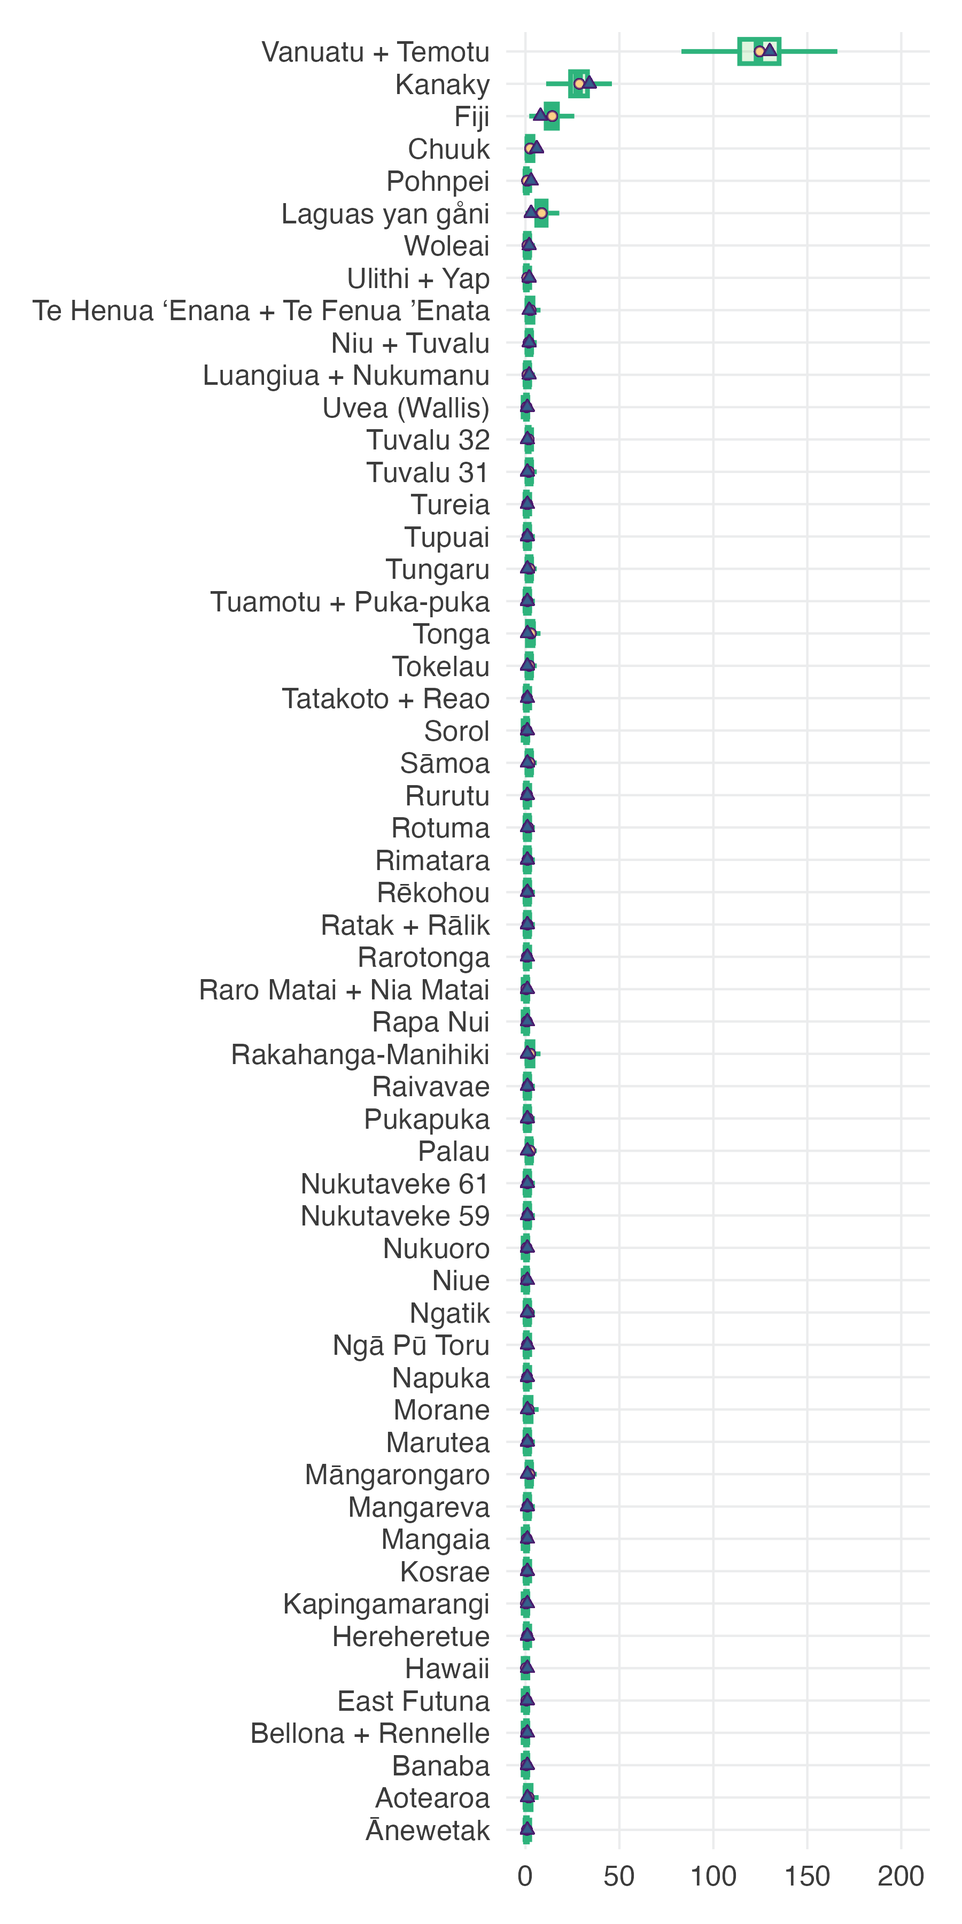
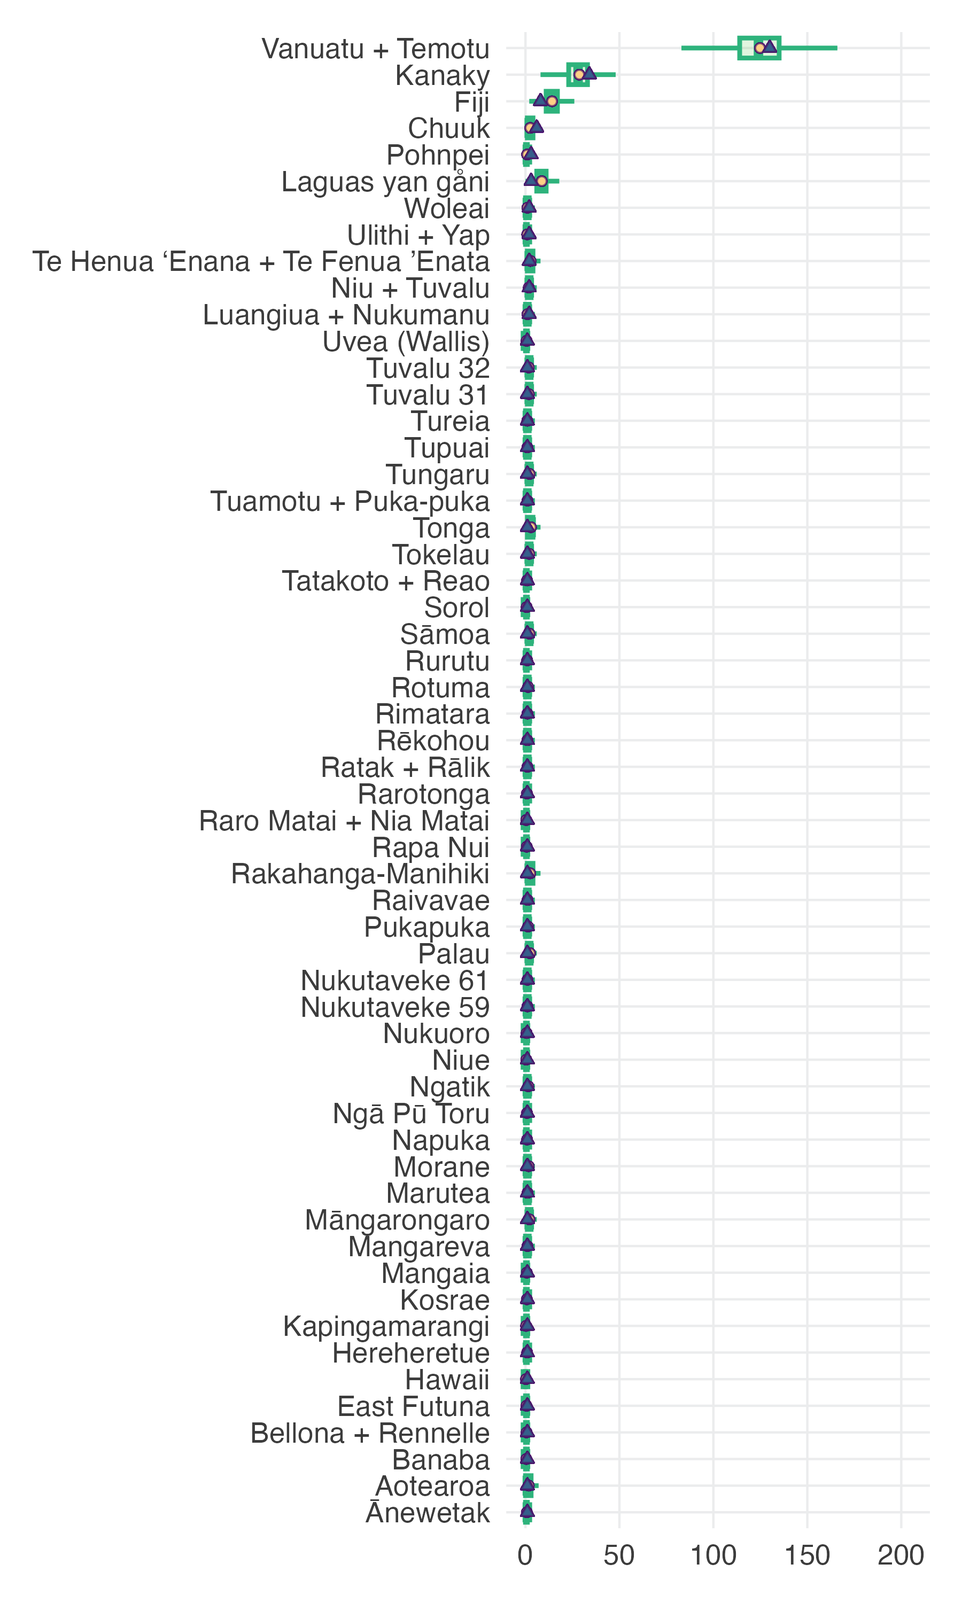
Updates from Overleaf

diff --git a/latex/main.tex b/latex/main.tex
@@ -414,28 +414,12 @@ Fig.~\ref{medium_model_predict} show the predictions of the model with island gr
 \end{figure}
 
 
-
-
-
 % #Frederic says: could also compute pareto-k https://mc-stan.org/loo/reference/pareto-k-diagnostic.html
 
-Most of the island groups can be removed with little effect on the overall accuracy of predictions (see Fig.  in \ref{appendix_supp_figs}), however, when Malakula (central Vanuatu), is left out, the difference average difference between predicted and observed becomes lower (1.3 $\rightarrow$ 0.9). Malakula is the island group with the highest number of languages (see Fig \ref{appendix_polygon_plot_medium} in appendix \ref{appendix_sec:island_geo}). Political complexity remains an important predictor regardless of which island group is dropped.
+Most of the island groups can be removed with little effect on the overall accuracy of predictions both in the case of shared language groups and overnight sailing distances, when control for spatial and/or phylogenetic non-independence is present. When there is no such control, dropping out Malakula, Kanaky or Laguas yan gåni drops the accuracy of prediction for the shared language groups and Vanuatu + Temotu, Fiji, Kanaky and Laguas yan gåni does the same for the overnight sailing-distance groups. These island groups primarily stand out by many languages (Malakula, Kanaky and Vanuatu at large, see Fig. \ref{appendix_polygon_plot_medium} in the appendices) and the depth of time (Laguas yan gåni). It is not as clear in what way Fiji stands out, it may be a combination of sharing many features with neighbouring islands such as S\={a}moa, Tahiti and Tonga but having more languages (8 as compared to 1). See appendix \ref{appendix_supp_figs_barplots_diff} for plots of differences in predictions when island groups are dropped out one at a time.
 
-%and shoreline in interaction with time depth are the variables that have a significant impact, i.e. do not cross zero (see coefficent distributions in Figs.  and \ref{brms_medium_group_full_effect_ridge_panels} in appendix \ref{appendix_supp_figs}).
 
-For the overnight sailing distances, several island groups are much larger than the previous grouping. The islands of Vanuatu  (including Anuta and Tikopia) and Temotu are all within the same group (see Fig \ref{appendix_polygon_plot_SBZR} in appendix \ref{appendix_sec:island_geo}; this is similar to the groups considered in \citet{pawley2007}). This also leads to a larger discrepancy between the number of languages, with Vanuatu and Temotu having 130 and S\={a}moa still only one. The average absolute difference between the predicted and observed number of languages is somewhat greater than for the previous grouping --- 1.6. Fig \ref{SBZR_model_predict} shows the prediction vs observed per island group.
-
-\begin{figure}[ht]
-\centering
-\includegraphics[width=0.6\textwidth]{latex/brms_predict_SBZR_control_spatial.png}
-\caption{Posterior prediction from the model with island grouped for overnight sailing distances (draws = 10,000). The dark blue triangles represent the observed number of languages, the green boxplot the predictions of the model. The middle of the box represents the median. The mean is represented with a yellow circle.}
-\label{SBZR_model_predict}
-\end{figure}
-
-%Shoreline:Settlement_date_grouping_finer§straddle_zero_95
-%environ_PC1:Shoreline§straddle_zero_95
-
-The most important variables in this model (i.e. 95\% confidence interval of coefficient distribution does not overlap 0) were: political complexity, environmental PC2, shoreline, time depth and time-depth in interaction with shoreline  (see Fig ). However, if we drop out Vanuatu + Temotu this no longer holds. When Vanuatu + Temotu are left out, the coefficient distribution of political complexity overlaps zero. Instead,  Shoreline in interaction with time depth and environmental PC1 in interaction with Shoreline are relevant predictors. When Vanuatu + Temotu are dropped out, the overall difference between predicted and observed values goes down the most (from 1.6 to 0.7, see Fig. \ref{appendix_brms_SBZR_dropped_out_plot_diff}). When Vanuatu + Temotu are excluded, the model is more accurate. If we ask this model that has been trained \emph{without} the Vanuatu + Temotu data to predict how many languages there are there, it grossly underestimates and proposes 7 languages (observed = 130). If we drop out any other island group (including Kanaky), political complexity remains an important predictor.
+%The most important variables in this model (i.e. 95\% confidence interval of coefficient distribution does not overlap 0) were: political complexity, environmental PC2, shoreline, time depth and time-depth in interaction with shoreline  (see Fig ). However, if we drop out Vanuatu + Temotu this no longer holds. When Vanuatu + Temotu are left out, the coefficient distribution of political complexity overlaps zero. Instead,  Shoreline in interaction with time depth and environmental PC1 in interaction with Shoreline are relevant predictors. When Vanuatu + Temotu are dropped out, the overall difference between predicted and observed values goes down the most (from 1.6 to 0.7, see Fig. \ref{appendix_brms_SBZR_dropped_out_plot_diff}). When Vanuatu + Temotu are excluded, the model is more accurate. If we ask this model that has been trained \emph{without} the Vanuatu + Temotu data to predict how many languages there are there, it grossly underestimates and proposes 7 languages (observed = 130). If we drop out any other island group (including Kanaky), political complexity remains an important predictor.
 
 %For tables of the predictor Estimates, Rhat and ESS of both models, please see appendix \ref{appendix_BRMS_model_tables}.
 
@@ -453,17 +437,17 @@ The most important variables in this model (i.e. 95\% confidence interval of coe
 \FloatBarrier
 \section{Discussion}
 \label{pol_study_discisson}
-The results indicate that political complexity could be relevant for understanding the dynamics of language diversification in Remote Oceania, but further studies are needed --- especially regarding Vanuatu. 
+The results indicate that political complexity may be relevant for understanding the dynamics of language diversification in Remote Oceania, but further studies are needed.
 
-When the island group Vanuatu + Temotu was dropped, the model for overnight sailing island groups no longer drew on political complexity as a relevant predictor of language richness. This may indicate that it primarily made use of the variable to tell apart Vanuatu + Temotu from all other island groups. Vanuatu + Temotu is by far the island group with the most languages, 130, and it is dominated by societies that are classed as level 1 on the scale of vertical political complexity used by the Ethnographic Atlas \citep{gray1998ethnographic} and other studies \citep{watts_2018}, see Fig. \ref{appendix_pol_complex_map} in appendix \ref{appendix_pol_complex}).
+As is clear in the DAG representing all relevant variables suggested in the previous literature (Fig. \ref{appendix_Predicting_lgs_DAG_full} in appendix \ref{appendix_DAG_def}) or the DAG representing the argumentation by \citet{pawley2007}, the link between political complexity and number of languages is not direct. It is most likely mediated through other factors such as network modularity, the propensity to maintain long-distance contact etc. 
 
-Furthermore, if we tease apart the argument concerning political complexity (for example in the full DAG in Fig. \ref{appendix_Predicting_lgs_DAG_full} in appendix \ref{appendix_DAG_def} or Fig. \ref{Predicting_lgs_DAG_andy} in section \ref{sec:previous_research}), we find that conceptually the link between the number of languages and political complexity is not direct. It could be mediated through other factors such as network modularity, the propensity to maintain long-distance contact etc. 
-
-\citet{watts_2018} found that politically complex societies in Oceania became Christian at a faster speed. This may indicate that changes propagate through a population quicker if the society is not egalitarian. If Christianity spreads faster in societies with higher complexity, it is possible to reason that other changes also might spread faster. If changes propagate quickly throughout a population, that leaves less possibility for diversification through natural drift or groups in the periphery staying more archaic compared to the centre. This interpretation relies on the understanding that the variable for political complexity (EA033) reveals something not only about jurisdictional power relationships in a given society, but also captures something about the social network of \emph{all} of its members (not just the leaders). Under this theory, people living in societies with higher political complexity would be able to travel further and have wider-ranging social networks, which in turn would lead to greater internal cultural homogeneity.
+\citet{watts_2018} found that politically complex societies in Oceania became Christian at a faster speed. This may indicate that changes propagate through a population quicker if the society is not egalitarian. If Christianity spreads faster in societies with higher complexity, it is possible to reason that other innovations (e.g. words, sounds etc) also might spread faster. If changes propagate quickly, that leaves less possibility for diversification within island groups via natural drift or due to groups in the periphery staying more archaic compared to the centre. This interpretation relies on the understanding that the variable for political complexity (EA033) reveals something not only about jurisdictional power relationships in a given society, but also captures something about the social network of \emph{all} of its members (not just the leaders). Given this hypothesis, people living in societies with higher political complexity would be able to travel further and have wider-ranging social networks due to less modularity and isolation, which in turn would lead to greater internal cultural homogeneity.
 
 Maintaining long-distance contact can indeed be a function of shared cultural identity. \citet[218-291]{skirgaard2020multilevel} notes that there are not only fewer languages in the island groups of Polynesia, but they are also more similar to each other lexically than languages in Vanuatu are. This relationship does not hold for grammatical features however, languages in Polynesia are about as different from each other grammatically as languages of Vanuatu and other island groups in Remote Oceania are (as measured by Grambank features, \citep{grambank_release}). It has been suggested, by \citet{silverstein1981limits}, \citet{francois2011} and others (cf. \citet{mansfield2023dialect}), that communities pay special attention to words and sound differences as emblematic of shared ties --- but grammar tends to fly under the radar in this respect. This difference between Vanuatu and Polynesia in terms of lexical dissimilarity and language richness, but the similarity in terms of grammatical diversification may indicate that the cause does indeed lie in attitudes and social network organisation  - similar to the findings of this study.
 
 \citet{curriemace2009} argue that the reason behind their results (higher political complexity = larger language areas) is that societies with higher political complexity are more likely to be able to replace existing groups in an area, or otherwise incorporate (and possibly assimilate) them. It may also be the case that diversity in Polynesia was reduced by later expansionist efforts by societies with higher political complexity. For example, the island of Niuafo'ou which lies between Tonga, 'Uvea and S\={a}moa is home to a language that is most closely related to 'Uvean. This language has however become \emph{more} similar to Tongan during the period of Tongan domination in the area 1000-1300's (see \citet{aswani1998tongan} and \citep[2-9]{tuskamoto_niuafoou}). It may be that politically complex societies do not only \emph{maintain} homogeneity by continuing to be in contact after first settlement, but can also reduce diversity which emerges after settlement through incorporation and cultural dominance later.
+
+The results of this study shows that accounting for spatial and phylogenetic non-independence of island groups is important.
 
 Whatever the political complexity variable is tracking, it is clear that it is one of the variables that most clearly picks out Vanuatu and that Vanuatu is the place with the most languages. Where did this difference in societal organisation come from? As previous studies have indicated (e.g. \citet{lynch1981melanesian}), the answer may lie in contact with people of non-East Asian origin further west. It is possible that contact with communities from New Guinea and Solomons (in Bismarck before migration to Vanuatu or in Vanuatu after initial settlement) brought with it societal changes to Vanuatu that caused it to be a different place from islands further east (cf. Pawley's idea of the same process at different speeds). Besides the possible cultural influence on attitudes and societal organisation, they may also have brought with them their own cultural heritage which would add to the diversity in itself.
 
@@ -482,7 +466,7 @@ It was not possible to take into account historic population size into this stud
 
 %It is beyond the scope of this study to fully investigate the causality of language diversification in Remote Oceania. Causality in cultural evolution is very complicated, since factors can interact on many levels and it is difficult to control for unknown variables and proxy effects (c.f \citet{roberts2013linguistic}). In this instance, we will be satisfied with testing if there is a correlation between societal structure and language diversity that is still signifncant once environmental and settlement time has been incorporated into the model.
 
-Similarly to \citet{gavin2012island}, \citet{hua2019ecological} and others, the results of this study indicate that environmental factors, as encapsulated by the principal components, play some in explaining language diversity in Remote Oceania. However, size, time depth and political complexity are clearly necessary to take into account for this region.
+Similarly to \citet{gavin2012island}, \citet{hua2019ecological} and others, the results of this study indicate that environmental factors, as encapsulated by the principal components, play some role in explaining language diversity in Remote Oceania. However, size, time depth and political complexity are clearly necessary to take into account for this region.
 
 %This is most likely because most of the island groups share a similar climate, and there is therefore not enough variation to tease them apart.
 

diff --git a/latex/appendices.tex b/latex/appendices.tex
@@ -258,34 +258,33 @@ These two principles, overnight sailing distances and sharing a language, have b
 
 %\citep[194]{irwin1994prehistoric} inter-island vogagýing existed and micronesian atolls are precarious
 
-\textbf{Grouping islands based on voyaging distances}. \citet{mark_1986, marck2000} has suggested that islands within 100 miles\footnote{Note that Marck uses \emph{land} miles, not \emph{nautical} miles (Marck personal correspondence).} are reachable by overnight voyages in a traditional canoe (24h). This is taken to represent a good approximation of island connections of frequent contact and is supported by other accounts, such as \citep[38]{gladwin2009east} who notes a higher frequency of travel between islands within 100 miles of each other. This is a distance people may travel for tribute offerings, trade and community events, which strengthens cultural ties. Further away, and it may not be so easy to get together as often. Fig. \ref{appendix_Marck_2000_east_poly} shows this principle applied to central East Polynesia.
+\textbf{Grouping islands based on voyaging distances}. \citet{mark_1986, marck2000} has suggested that islands within 100 miles\footnote{Note that Marck uses \emph{land} miles, not \emph{nautical} miles (Marck, personal correspondence 2018).} are reachable by overnight voyages in a traditional canoe. This is taken to represent a good approximation of island connections of frequent contact and is supported by other accounts, such as \citep[38]{gladwin2009east} who notes a higher frequency of travel between islands within 100 miles of each other. This is a distance people may travel for tribute offerings, trade and community events, which strengthens cultural ties. Further away, and it may not be so easy to get together as often. Fig. \ref{appendix_Marck_2000_east_poly} shows this principle applied to central East Polynesia.
 
 \begin{figure}[ht]
 \centering
-\includegraphics[width=\textwidth]{Marck_2000_east_poly}
-\caption{{Map of central East Polynesia from \citet{marck2000}, showing 100 mile radii.}}
+\includegraphics[width=0.8\textwidth]{Marck_2000_east_poly}
+\caption{{Map of central East Polynesia from \citet{marck2000}, showing 100 mile buffer zones.}}
 \label{appendix_Marck_2000_east_poly}
 \end{figure}
 
-This idea proved useful also in terms of understanding language communities. \citet{mark_1986, marck2000} demonstrates that this way of grouping islands often conforms neatly to linguistic boundaries --- especially in the north and east Pacific. For example, in Fig  \ref{appendix_Marck_2000_east_poly} the boundaries mostly line up well with well-established linguistic boundaries (with some exceptions, such as Tuamotus being split Australs merged etc). These island groups also line up somewhat with the ``interaction spheres'' in East Polynesia identified by \citet{rolett2002voyaging}\footnote{\citet{rolett2004environmental} consider islands within 50 km of each other as a meaningful unit, but do not extrapolate on why this is.}. 
+\citet{mark_1986, marck2000} demonstrates that this way of grouping islands often conforms neatly to linguistic boundaries --- especially in the north and east Pacific. For example, in Fig. \ref{appendix_Marck_2000_east_poly} the boundaries mostly line up well with well-established linguistic boundaries (with some exceptions, such as Tuamotus being split Australs merged etc). These island groups also line up somewhat with the ``interaction spheres'' in East Polynesia identified by \citet{rolett2002voyaging}\footnote{\citet{rolett2004environmental} consider islands within 50 km of each other as a meaningful unit, but do not give further details.}. 
 
-However, this way of grouping islands does not take into account currents and winds - they are ``just'' a simple 100-mile buffer zone from the coastline. \citet{NZSA_overnight_2023} improved upon this initial idea by incorporating a cost-surface that accounts for wind, currents and canoe profile shapes. Using data on winds and currents from 
-\citet{noaa_2019} and \citet{apdrc_2014}, a cost-surface model of the Pacific Ocean was created. In addition, a vessel model of a canoe was simulated (a v-shaped outrigger, similar toFig. \ref{appendix_kane_fishing_canoe}). Voyages of 12 hours were simulated from different seed points on islands over different times over the year as currents and winds vary with seasons.  
+However, this way of grouping islands does not consider currents and winds - they are ``just'' a simple 100-mile buffer zone from the coastline. \citet{NZSA_overnight_2023} improved upon this initial idea by incorporating a cost-surface that accounts for wind, currents and canoe profile shapes. Using data on winds and currents from 
+\citet{noaa_2019} and \citet{apdrc_2014}, a cost-surface model of the Pacific Ocean was created. In addition, a vessel model of a canoe was simulated (a v-shaped outrigger, similar to Fig. \ref{appendix_kane_fishing_canoe}). Voyages of 12 hours were simulated from different seed points on islands over different times over the year as currents and winds vary with seasons. Islands were grouped together if these simulated voyages connected them.
 
-The novel results were largely similar to Marck's groupings, strengthening the assumption that 100 miles is a decent approximation. It is this new island grouping that is used in this study. I refer to these island groups as \textit{overnight distance groups}. Fig. \ref{appendix_polygon_plot_SBZR} shows this grouping, along with the number of languages per group. Out of the 56 island groups of this kind that were possible to include in the analysis, 45 have only one language.
-
+The novel results (Fig. \ref{appendix_SBZR_cost}) were largely similar to Marck's groupings (Fig. \ref{appendix_SBZR_buffer}), strengthening the assumption that 100 miles is a decent approximation. It is this new island grouping that is used in this study. We refer to these island groups as \textit{overnight distance groups}. Fig. \ref{appendix_polygon_plot_SBZR} shows this grouping, along with the number of languages per group. Out of the 56 island groups of this kind that were possible to include in the analysis, 45 have only one language.
 
 \begin{figure}[ht]
 \centering
 \includegraphics[width=0.7\textwidth]{Herb-Kane_Fishing-Canoe-off-North-Kona.jpg}
-\caption{{The painting ``A Fishing Canoe off North Kona'' by Herbert Kawainui K{\=a}ne. Illustration of an outrigger canoe with v-shaped hull. Copyright Herbert K. K{\=a}ne, LLC.}}
+\caption{{The painting ``A Fishing Canoe off North Kona'' by Herbert Kawainui K{\=a}ne. Illustration of an outrigger canoe with v-shaped hull. Copyright Herbert K. K{\=a}ne, LLC. Used with permission.}}
 \label{appendix_kane_fishing_canoe}
 \end{figure}
 
 \begin{figure}
 \centering
 \includegraphics[width=\textwidth]{SBZR_buffer.png}
-\caption{{}}
+\caption{Map of Marck's 100 miles buffer zones, from \citet{NZSA_overnight_2023}.}
 \label{appendix_SBZR_buffer}
 \end{figure}
 
@@ -293,14 +292,9 @@ The novel results were largely similar to Marck's groupings, strengthening the a
 \begin{figure}
 \centering
 \includegraphics[width=\textwidth]{SBZR_cost.png}
-\caption{{}}
+\caption{Map of island groups based on physical cost model from \citet{NZSA_overnight_2023}.}
 \label{appendix_SBZR_cost}
 \end{figure}
-
-
-
-
-
 
 \begin{sidewaysfigure}[p]
 \centering
@@ -308,6 +302,9 @@ The novel results were largely similar to Marck's groupings, strengthening the a
 \caption{{Distribution of languages per overnight sailing distance island group.}}
 \label{appendix_polygon_plot_SBZR}
 \end{sidewaysfigure}
+
+
+Several of these island groups are much larger than the shared language groups. The islands of Vanuatu  (including Anuta and Tikopia) and Temotu are all within the same group; this is similar to the groups considered in \citet{pawley2007}). There is also a large discrepancy between the number of languages, with Vanuatu and Temotu having 130 and S\={a}moa still only one. \\
 
 \textbf{Grouping islands based on (at least one) shared language}. If two islands share a language, they are classified as of the same island group. For example, all islands of the Tuamotu archipelago (where Tuamotuan [tuam1242] is spoken) are merged, even though they are grouped into several separate island groups by the overnight distance approach. Vanuatu, being a land of great language diversity, has a different group for almost every island. Another example is the Tungaru islands (western islands of modern-day Kiribati) and Tuvalu which actually share a language. Most people of the country of Tuvalu speak Tuvaluan, but there is one island, Nui, where Tungaru (Gilbertese [gilb1244]) is also spoken \citep{faaniu1983tuvalu, macdonald_2020, omniglot_tuvaluan}. We will call these island groups \textit{shared language groups}. Fig \ref{appendix_polygon_plot_medium} shows these groups, and their language counts. Out of the 65 island groups that were included in the modelling, 21 had only one language.
 
